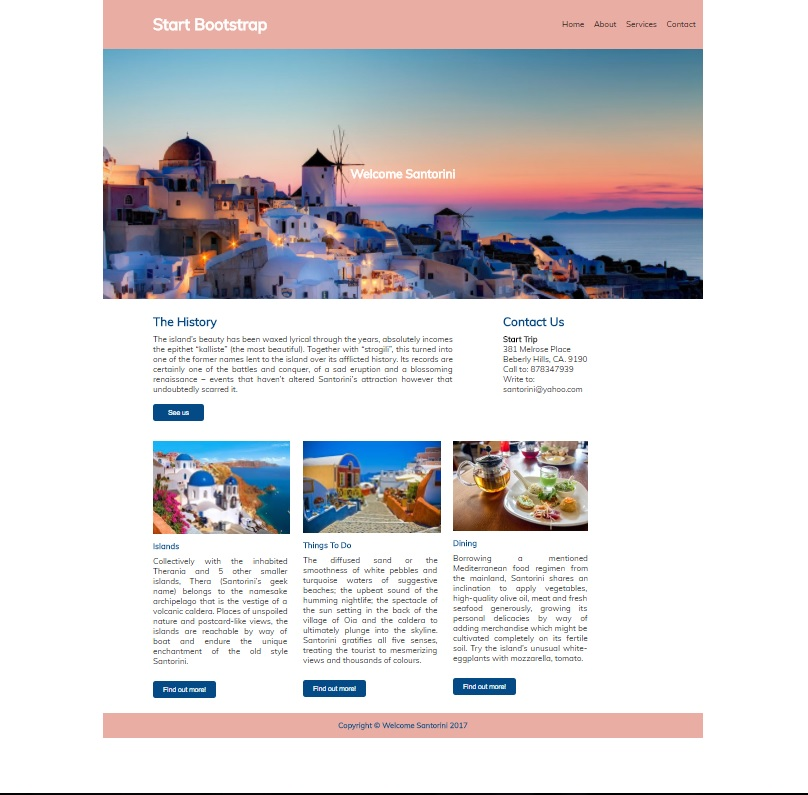
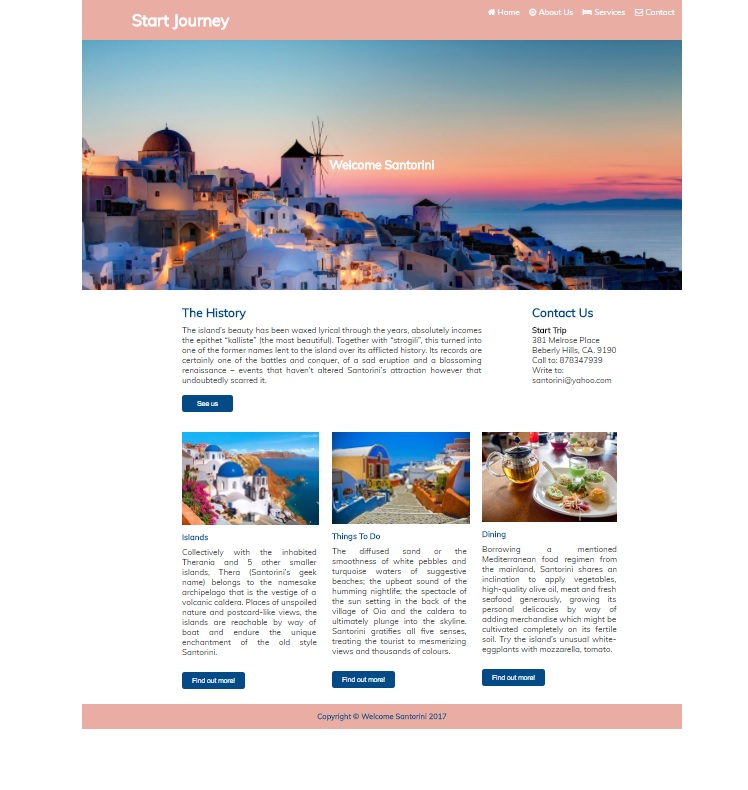
Añadiendo iconos y centrando el diseño mobile

Changed region(s): [[0.0922, 0.0, 0.9225, 0.9418]]

diff --git a/index.html b/index.html
@@ -15,17 +15,17 @@
         <div class="row">
             <div class="col-xs-12 responsive">
                 <header id="header">
-                    <h1 class="col-xs-offset-1 capitalize">start bootstrap</h1>
+                    <h1 class="col-xs-offset-1 capitalize"> Start journey</h1>
                     <div >
                         <div class="nav-bar col-xs-offset-5">
                             <span id="btn"><i  class="fa fa-bars" aria-hidden="true"></i></span>
                         </div>                            
                         <nav id = "menu" class="menu capitalize">
                             <ul id="list">
-                                <li>home</li>
-                                <li>about</li>
-                                <li>services</li>
-                                <li>contact</li>
+                                <li><i class="fa fa-home" aria-hidden="true"></i>home</li>
+                                <li><i class="fa fa-dot-circle-o" aria-hidden="true"></i>about us</li>
+                                <li><i class="fa fa-bed" aria-hidden="true"></i>services</li>
+                                <li><i class="fa fa-envelope-o" aria-hidden="true"></i>contact</li>
                             </ul>
                         </nav>
                     </div>
@@ -42,7 +42,7 @@
         <div class="row">
             <div class="col-xs-12">
                 <section class="information">
-                    <div class="col-xs-offset-1 col-xs-6 text-information">
+                    <div class="col-xs-offset-2 col-xs-6 text-information">
                         <h1 class="capitalize title-style">the history</h1>
                         <p class="text"> The island’s beauty has been waxed lyrical through the years, absolutely incomes the epithet “kalliste” (the most beautiful). Together with “strogili”, this turned into one of the former names lent to the island over its afflicted history. Its records are certainly one of the battles and conquer, of a sad eruption and a blossoming renaissance – events that haven’t altered Santorini’s attraction however that undoubtedly scarred it.</p>
                         <input class ="btn see" type="button" value="See us">
@@ -60,19 +60,19 @@
         <div class="row">
             <div class="col-xs-12" >
                 <section class="gallery">
-                    <div class="col-xs-offset-1 col-xs-3 container-gallery">
+                    <div class="col-xs-offset-2 col-xs-3 container-gallery">
                         <img src="assets/images/gallery-1.jpg" alt="">
                         <h4 class="capitalize title-style">islands</h4>
                         <p>Collectively with the inhabited Therania and 5 other smaller islands, Thera (Santorini’s geek name) belongs to the namesake archipelago that is the vestige of a volcanic caldera. Places of unspoiled nature and postcard-like views, the islands are reachable by way of boat and endure the unique enchantment of the old style Santorini.</p>
                         <input class= "btn find" type="button" value="Find out more!">
                     </div>
-                    <div class=" col-xs-3 container-gallery">
+                    <div class="col-xs-3 container-gallery">
                         <img src="assets/images/gallery-2.jpg" alt="">
                         <h4 class="capitalize title-style">things to do</h4>
                         <p>The diffused sand or the smoothness of white pebbles and turquoise waters of suggestive beaches; the upbeat sound of the humming nightlife; the spectacle of the sun setting in the back of the village of Oia and the caldera to ultimately plunge into the skyline. Santorini gratifies all five senses, treating the tourist to mesmerizing views and thousands of colours.</p>
                         <input class= "btn find" type="button" value="Find out more!">
                     </div>
-                    <div class=" col-xs-3 container-gallery">
+                    <div class="col-xs-3 container-gallery">
                         <img class="dinner" src="assets/images/gallery-3.jpg" alt="">
                         <h4 class="capitalize title-style">dining</h4>
                         <p>Borrowing a mentioned Mediterranean food regimen from the mainland, Santorini shares an inclination to apply vegetables, high-quality olive oil, meat and fresh seafood generously, growing its personal delicacies by way of adding merchandise which might be cultivated completely on its fertile soil. Try the island’s unusual white-eggplants with mozzarella, tomato.

diff --git a/css/main.css b/css/main.css
@@ -60,10 +60,15 @@ header h1 {
 .menu ul li {
     margin-right: 15px;
     display: inline-block;
+    color: #fff;
+}
+
+.menu ul li i {
+    margin-right: 5px;
 }
 
 .menu ul li:hover {
-    color: #fff;
+    color: #044a86;
     cursor: pointer;
 }
 
@@ -177,22 +182,29 @@ footer {
     }
 
     .text-information {
-        width: 80% !important;
+        width: 70% !important;
     }
 
     .contact {
         margin-top: 20px;
-        clear: both;
+        margin-left: 18% !important;   
         width: 80% !important;
     }
 
     .container-gallery {
-        float: none !important;
-        width: 80% !important;
+        width: 75% !important;
         margin-top: 30px;
-        margin-left: 30px;
+        margin-left: 18%;
     }
 
+    .container-gallery input {
+        margin-left: 20%;
+        margin-bottom: 20px; 
+    }
+
+    .menu ul li i {
+        display: none;
+    }
 }
 
 
@@ -214,5 +226,5 @@ footer {
  }
 
  .title {
-     line-height: 70px;
+     line-height: 80px;
  }
